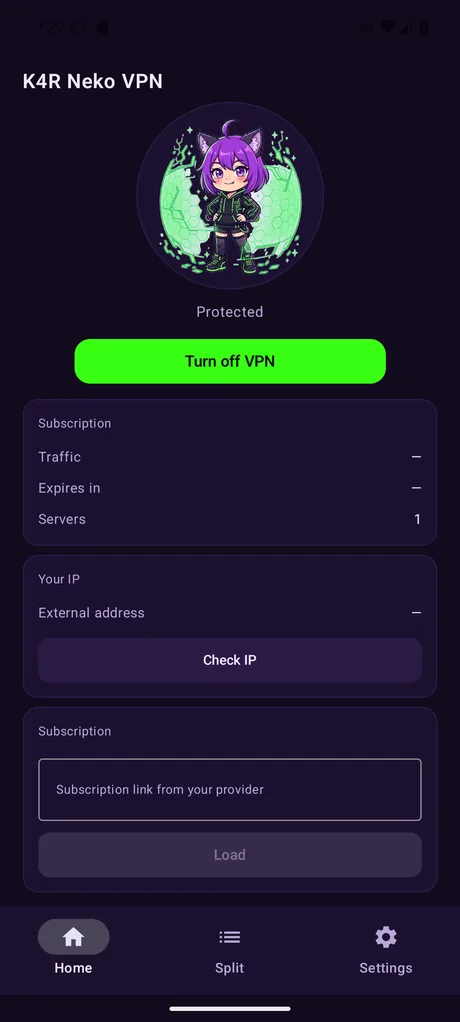
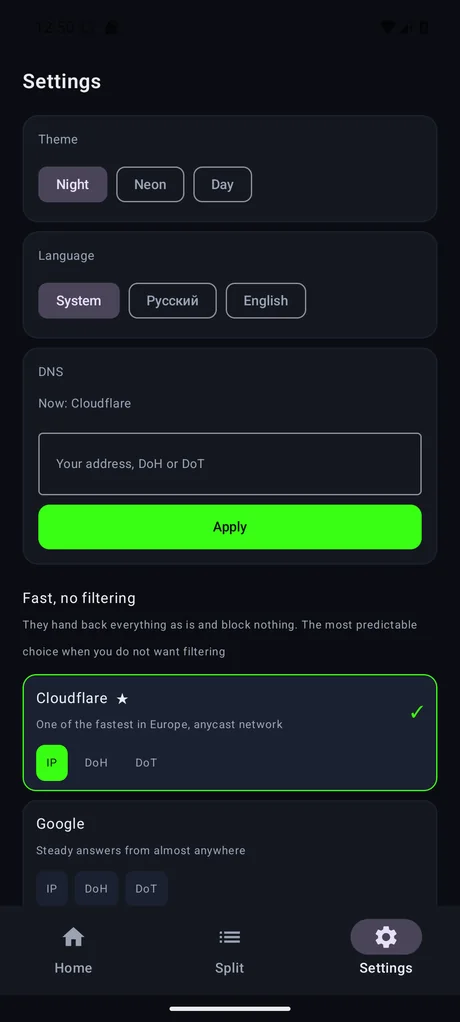
Android 0.2.0: версия, документы, скриншоты
- CHANGELOG: раздел про защиту при обрыве, язык, журнал, отклик, тесты
- README: 0.2.0, новые возможности, команда тестов
- ADR-005: разделы про kill switch на Android, честную проверку готовности,
  перебор серверов, HWID из ANDROID_ID и тесты
- ФУНКЦИИ: таблица Android 0.2.0 и список того, чего ещё нет
- скриншоты настроек и разделения — уже с панелью языка

diff --git a/android/app/src/main/java/ink/k4r/nekoneko/ui/App.kt b/android/app/src/main/java/ink/k4r/nekoneko/ui/App.kt
@@ -87,5 +87,5 @@ fun App() {
 
 /** Версия приложения в одном месте. */
 object Build {
-    const val APP_VERSION = "0.1.0"
+    const val APP_VERSION = "0.2.0"
 }

diff --git a/docs/adr/ADR-005-android.md b/docs/adr/ADR-005-android.md
@@ -101,6 +101,55 @@ Kotlin», отладка через три границы; системные в
 поднимается, `api.ipify.org` через туннель отдаёт адрес сервера (178.17.61.170),
 без туннеля — домашний адрес провайдера.
 
-Что осталось из плана: автозапуск, плитка, счётчики трафика, переключатель языка
-внутри приложения (сейчас — язык системы), сборка `arm64` для реальных телефонов
-(сейчас собран только `amd64` под эмулятор).
+## Защита при обрыве: как это сделано
+
+На Windows kill switch — второй движок, который «держит» маршруты (ADR-004).
+На Android так нельзя: VPN в системе один, и держать его может только наш
+`VpnService`. Поэтому при отказе туннеля служба не выключается, а поднимает
+VPN **без ядра**: адрес `172.19.0.1/30`, маршруты `0.0.0.0/0` и `::/0`,
+`setBlocking(true)`. Маршруты забирают весь трафик, читать их некому — пакеты
+пропадают в «чёрной дыре», утечки нет. Ссылку на этот VPN держим в поле, а не
+в локальной переменной: иначе снять блокировку нечем (на деле ссылка терялась,
+и после «Выключить» VPN оставался включённым, а интернета не было).
+Блокировка снимается в `stop()`, `onDestroy()` и `onRevoke()`.
+
+## Честность проверки: данные, а не факт соединения
+
+Первая версия считала туннель живым, если открывался TCP-сокет. Это оказалось
+неправдой: ядро принимает соединение само (это локальный прокси) и соглашается
+даже тогда, когда сервер мёртв. Второй заход — HTTP-запрос к `api.ipify.org` —
+был честным, но висел ~100 секунд: мёртвый туннель подвешивает разрешение имени,
+а `connectTimeout` на DNS не действует. Итог: `GET http://1.1.1.1/cdn-cgi/trace`
+(по адресу, без DNS) в отдельном потоке с жёстким сроком 5 секунд, две попытки
+на сервер. Вердикт — за ~15 секунд, и он основан на реально пришедших данных.
+
+## Перебор серверов
+
+На живом списке провайдера первая запись «Авто-выбор сервера» (адрес
+`selectel.ru:10121`) не отвечала: подключение падало через 20 секунд, хотя
+остальные серверы работали. Отсюда правило: пробуем до трёх серверов, начиная
+с выбранного, записи «Авто-выбор» — в конце очереди, а после загрузки подписки
+по умолчанию выбирается первый настоящий сервер. Что происходит, видно в
+интерфейсе и в журнале.
+
+## Идентификатор устройства
+
+Провайдер считает устройства по `X-HWID`. Сначала он был случайным на установку —
+и после `pm clear` подписка ответила «Достигнут предел количества устройств»:
+старый слот остался занят, новый добавился. Теперь HWID считается из
+`ANDROID_ID` (SHA-256, 12 шестнадцатеричных знаков): он живёт столько же,
+сколько телефон, и переустановка приложения его не меняет.
+
+## Тесты
+
+`./gradlew testDebugUnitTest` — 61 тест на JVM, без телефона: разбор подписки,
+флаги, конфиг ядра, сборщик JSON, выбор серверов, отклик, журнал, язык, HWID.
+Два теста сразу нашли настоящие ошибки в флагах: «It works» теряло слово
+(«IT» принималось за Италию), а неизвестный код рисовал несуществующий флаг.
+`org.json` в юнит-тестах — заглушка из `android.jar`, поэтому конфиг собирается
+своим маленьким сборщиком с экранированием по RFC 8259, и его видно в тестах.
+
+## Что осталось
+
+Паритет с ПК: несколько подписок, QR-код, спидтест, Telegram-прокси. Сборка
+проверена на эмуляторе, приёмка на живом телефоне — за владельцем.

diff --git a/README.md b/README.md
@@ -4,7 +4,7 @@
 sing-box, аккуратный интерфейс на React и маскот, который живёт в интерфейсе, а
 не висит картинкой в углу.
 
-> **1.2.0** — релиз для Windows. Android — рабочая сборка **0.1.0** (туннель уже
+> **1.2.0** — релиз для Windows. Android — рабочая сборка **0.2.0** (туннель уже
 > настоящий, см. ниже). iOS — следующий.
 > Что менялось: [CHANGELOG.md](CHANGELOG.md).
 
@@ -55,29 +55,31 @@ sing-box, аккуратный интерфейс на React и маскот, к
   <tr>
     <td align="center"><sub>Маскот, состояние, подписка, «Твой IP»</sub></td>
     <td align="center"><sub>Живой список программ с иконками</sub></td>
-    <td align="center"><sub>Три темы и каталог DNS</sub></td>
+    <td align="center"><sub>Три темы, язык, каталог DNS</sub></td>
   </tr>
 </table>
 
 Что уже работает: туннель VLESS/REALITY через `sing-box` (проверено на настоящей
 подписке — внешний адрес меняется на адрес сервера), честное состояние
 «Защищено» только после живого ответа через туннель, подписка с разбором
-`subscription-userinfo`, выбор сервера, разделение по приложениям, каталог DNS,
-три темы, блокировка IPv6.
+`subscription-userinfo`, выбор сервера с откликом, перебор серверов при отказе,
+разделение по приложениям, каталог DNS, три темы, блокировка IPv6, язык
+интерфейса (система / русский / English).
 
-Есть автозапуск после перезагрузки и плитка в шторке. Ядро собрано под `arm64`
-и `amd64`, поэтому этот же APK ставится на настоящий телефон.
+**Защита при обрыве**: если туннель упал, трафик не уходит напрямую — приложение
+держит VPN, который ничего не пропускает, и предлагает вернуть интернет кнопкой.
 
-Есть счётчики трафика туннеля — цифры от самого ядра, не оценка.
-
-Чего пока нет: переключателя языка внутри приложения (язык берётся из системы).
+Есть автозапуск после перезагрузки и плитка в шторке, счётчики трафика от самого
+ядра и журнал ядра в настройках. Ядро собрано под `arm64` и `amd64`, поэтому
+этот же APK ставится на настоящий телефон.
 
 Сборка:
 
 ```
 cd android
-./gradlew assembleDebug     # нужен Android SDK 35, NDK не требуется
-./gradlew assembleRelease   # подписанный APK для телефона
+./gradlew assembleDebug              # нужен Android SDK 35, NDK не требуется
+./gradlew testDebugUnitTest          # 61 юнит-тест логики
+./gradlew assembleRelease            # подписанный APK для телефона
 ```
 
 Перед сборкой положить `libbox.aar` в `android/app/libs/` (в репозитории его нет):
@@ -89,7 +91,7 @@ Release подписывается ключом из `android/keystore.propertie
 нельзя, и это видно сразу. Ключ нельзя терять — обновления должны быть подписаны
 тем же ключом, иначе Android откажется ставить новую версию поверх старой.
 
-Готовый APK: `dist/K4R-Neko-VPN-0.1.0-android.apk` (arm64 + amd64, 52 МБ).
+Готовый APK: `dist/K4R-Neko-VPN-0.2.0-android.apk` (arm64 + amd64, 52 МБ).
 Ставится на телефон как обычный APK; Play Protect спросит про незнакомый
 источник — это ожидаемо, ключ самоподписанный.
 

diff --git a/CHANGELOG.md b/CHANGELOG.md
@@ -1,5 +1,42 @@
 # Что менялось
 
+## Android 0.2.0 — защита при обрыве, язык, журнал
+
+- **Защита при обрыве (kill switch).** Если сервер не ответил или туннель упал,
+  трафик больше не уходит напрямую: поднимаем VPN без ядра, маршруты забирают
+  всё, читать их некому — пакеты пропадают. Кнопка на главной меняется на
+  «Вернуть интернет», иначе человек остался бы без сети и без объяснения.
+  Проверено живьём: мёртвый сервер → IP-проверка виснет, «Вернуть интернет» →
+  домашний адрес виден снова.
+- **Перебор серверов.** Провайдер кладёт в список «Авто-выбор сервера» с чужим
+  адресом, и на живом списке он не отвечал. Теперь при отказе пробуем следующий
+  сервер (до трёх), «Авто-выбор» — в конце очереди, а после загрузки подписки
+  выбирается первый настоящий сервер. В интерфейсе видно, какой пробуем.
+- **Честная проверка готовности.** Сначала считали живым «сокет открылся», но
+  ядро принимает соединение само и соглашается даже с мёртвым сервером —
+  получалось «Защищено» при мёртвом туннеле. Теперь проверяем, пришли ли
+  настоящие данные, по адресу (без DNS) и с жёстким сроком 5 секунд: вердикт
+  за ~15 секунд вместо ~100.
+- **Язык выбирается в приложении**: как в системе / русский / English. Язык
+  применяется до первого кадра, поэтому подписи не «прыгают».
+- **Журнал ядра в настройках** — последние 200 событий: какой сервер пробовали,
+  что ответило ядро, почему отказ. Обновляется раз в секунду, пока открыт.
+  Адреса серверов в журнал не попадают.
+- **Отклик серверов в списке**: при выборе меряем время TCP-соединения —
+  «5 мс» или «нет ответа». Это цифра «сколько ждать до сервера», а работает ли
+  через него туннель, по-прежнему решает проверка запуска.
+- **Постоянный `X-HWID`** считается из `ANDROID_ID`: переустановка приложения
+  больше не занимает у провайдера новый слот устройств.
+- **61 юнит-тест** на JVM: разбор подписки (base64, REALITY, gRPC, заголовки
+  трафика), флаги стран, конфиг ядра, сборщик JSON, выбор серверов, отклик,
+  журнал, язык, HWID. Тесты нашли две настоящие ошибки: «It works» теряло слово
+  («IT» принималось за Италию), а неизвестный код рисовал несуществующий флаг.
+- Конфиг ядра теперь собирается своим сборщиком JSON с экранированием по
+  RFC 8259: `org.json` в юнит-тестах — заглушка, и конфиг было нечем проверить.
+- `base64` разбирается `java.util.Base64` и принимает URL-safe алфавит и строки
+  без выравнивания по «=».
+- Кнопка в настройках «Защита при обрыве»: включена по умолчанию.
+
 ## Android 0.1.0 — туннель на телефоне
 
 - **Настоящий VPN, а не заглушка.** Kotlin + Compose + собранный из исходников

diff --git a/docs/ФУНКЦИИ.md b/docs/ФУНКЦИИ.md
@@ -1,7 +1,7 @@
 # Функции: что есть, чего нет
 
 Список ведётся, чтобы ничего не терялось между версиями. Состояние на
-15.11.2026, версия 1.0.0.
+16.11.2026: Windows — 1.2.0, Android — 0.2.0.
 
 ## Есть и проверено
 
@@ -45,6 +45,31 @@
 | Расход по дням | Настройки |
 | Прокси для Telegram внутри туннеля | Защита туннеля |
 | Настройки Zapret рядом с нашими (DNS, Telegram) | Защита туннеля |
+
+## Android 0.2.0: есть и проверено на устройстве
+
+| Функция | Где |
+| --- | --- |
+| Туннель VLESS + Reality + gRPC или ws (тот же sing-box, но библиотекой) | весь клиент |
+| «Защищено» только после живых данных через туннель | Главная |
+| Подписка: ссылка, название, трафик, срок, список серверов с флагами | Главная |
+| Перебор серверов при отказе (до трёх), «Авто-выбор» — в конце | Главная |
+| Отклик сервера при выборе: «5 мс» или «нет ответа» | Главная |
+| Мой IP после подключения | Главная → «Проверить IP» |
+| Разделение по программам: «только выбранные» / «все, кроме выбранных» | Разделение |
+| Защита при обрыве: трафик не уходит напрямую, кнопка «Вернуть интернет» | Настройки, Главная |
+| DNS туннеля: адрес, DoH, DoT + каталог из 12 резолверов | Настройки |
+| Блокировка IPv6 | Настройки |
+| Три темы | Настройки |
+| Язык: как в системе / русский / English | Настройки |
+| Счётчики трафика от ядра | Главная |
+| Журнал ядра в приложении (200 строк, без адресов серверов) | Настройки → Диагностика |
+| Автозапуск после перезагрузки, плитка в шторке | Настройки |
+| Постоянный `X-HWID` из `ANDROID_ID` | автоматически |
+
+Чего на Android пока нет (кандидаты на паритет с ПК): несколько подписок сразу,
+QR-код подписки, спидтест, статистика по дням, прокси для Telegram, резервная
+копия настроек, проверка утечек DNS.
 
 ## Нет в приложении (кандидаты)
 
